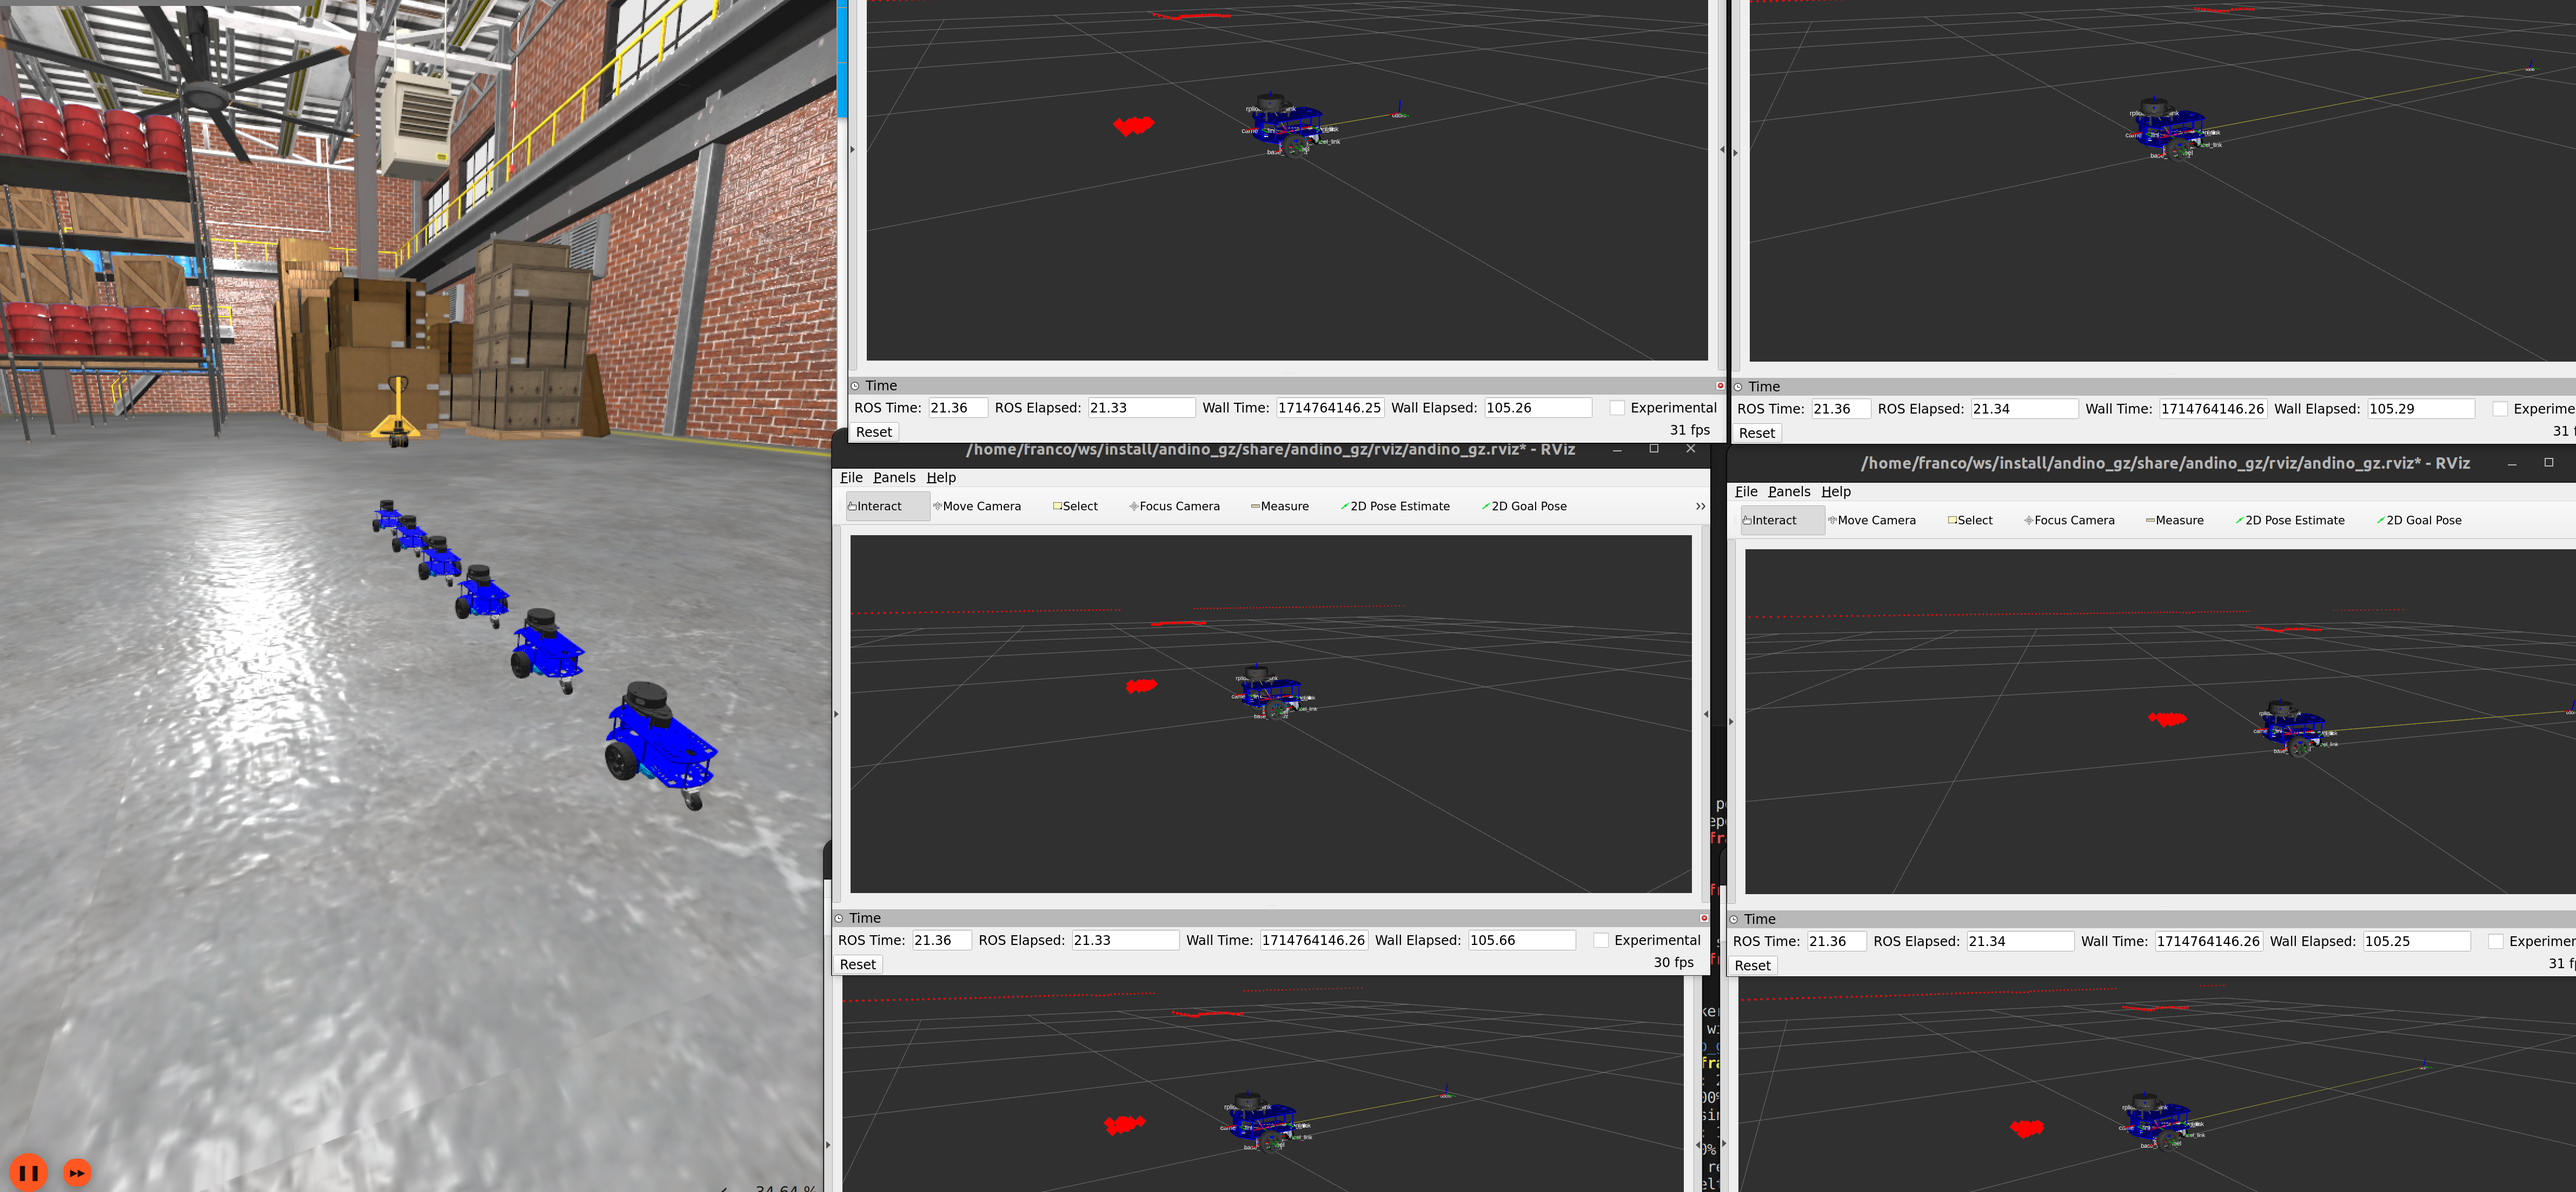
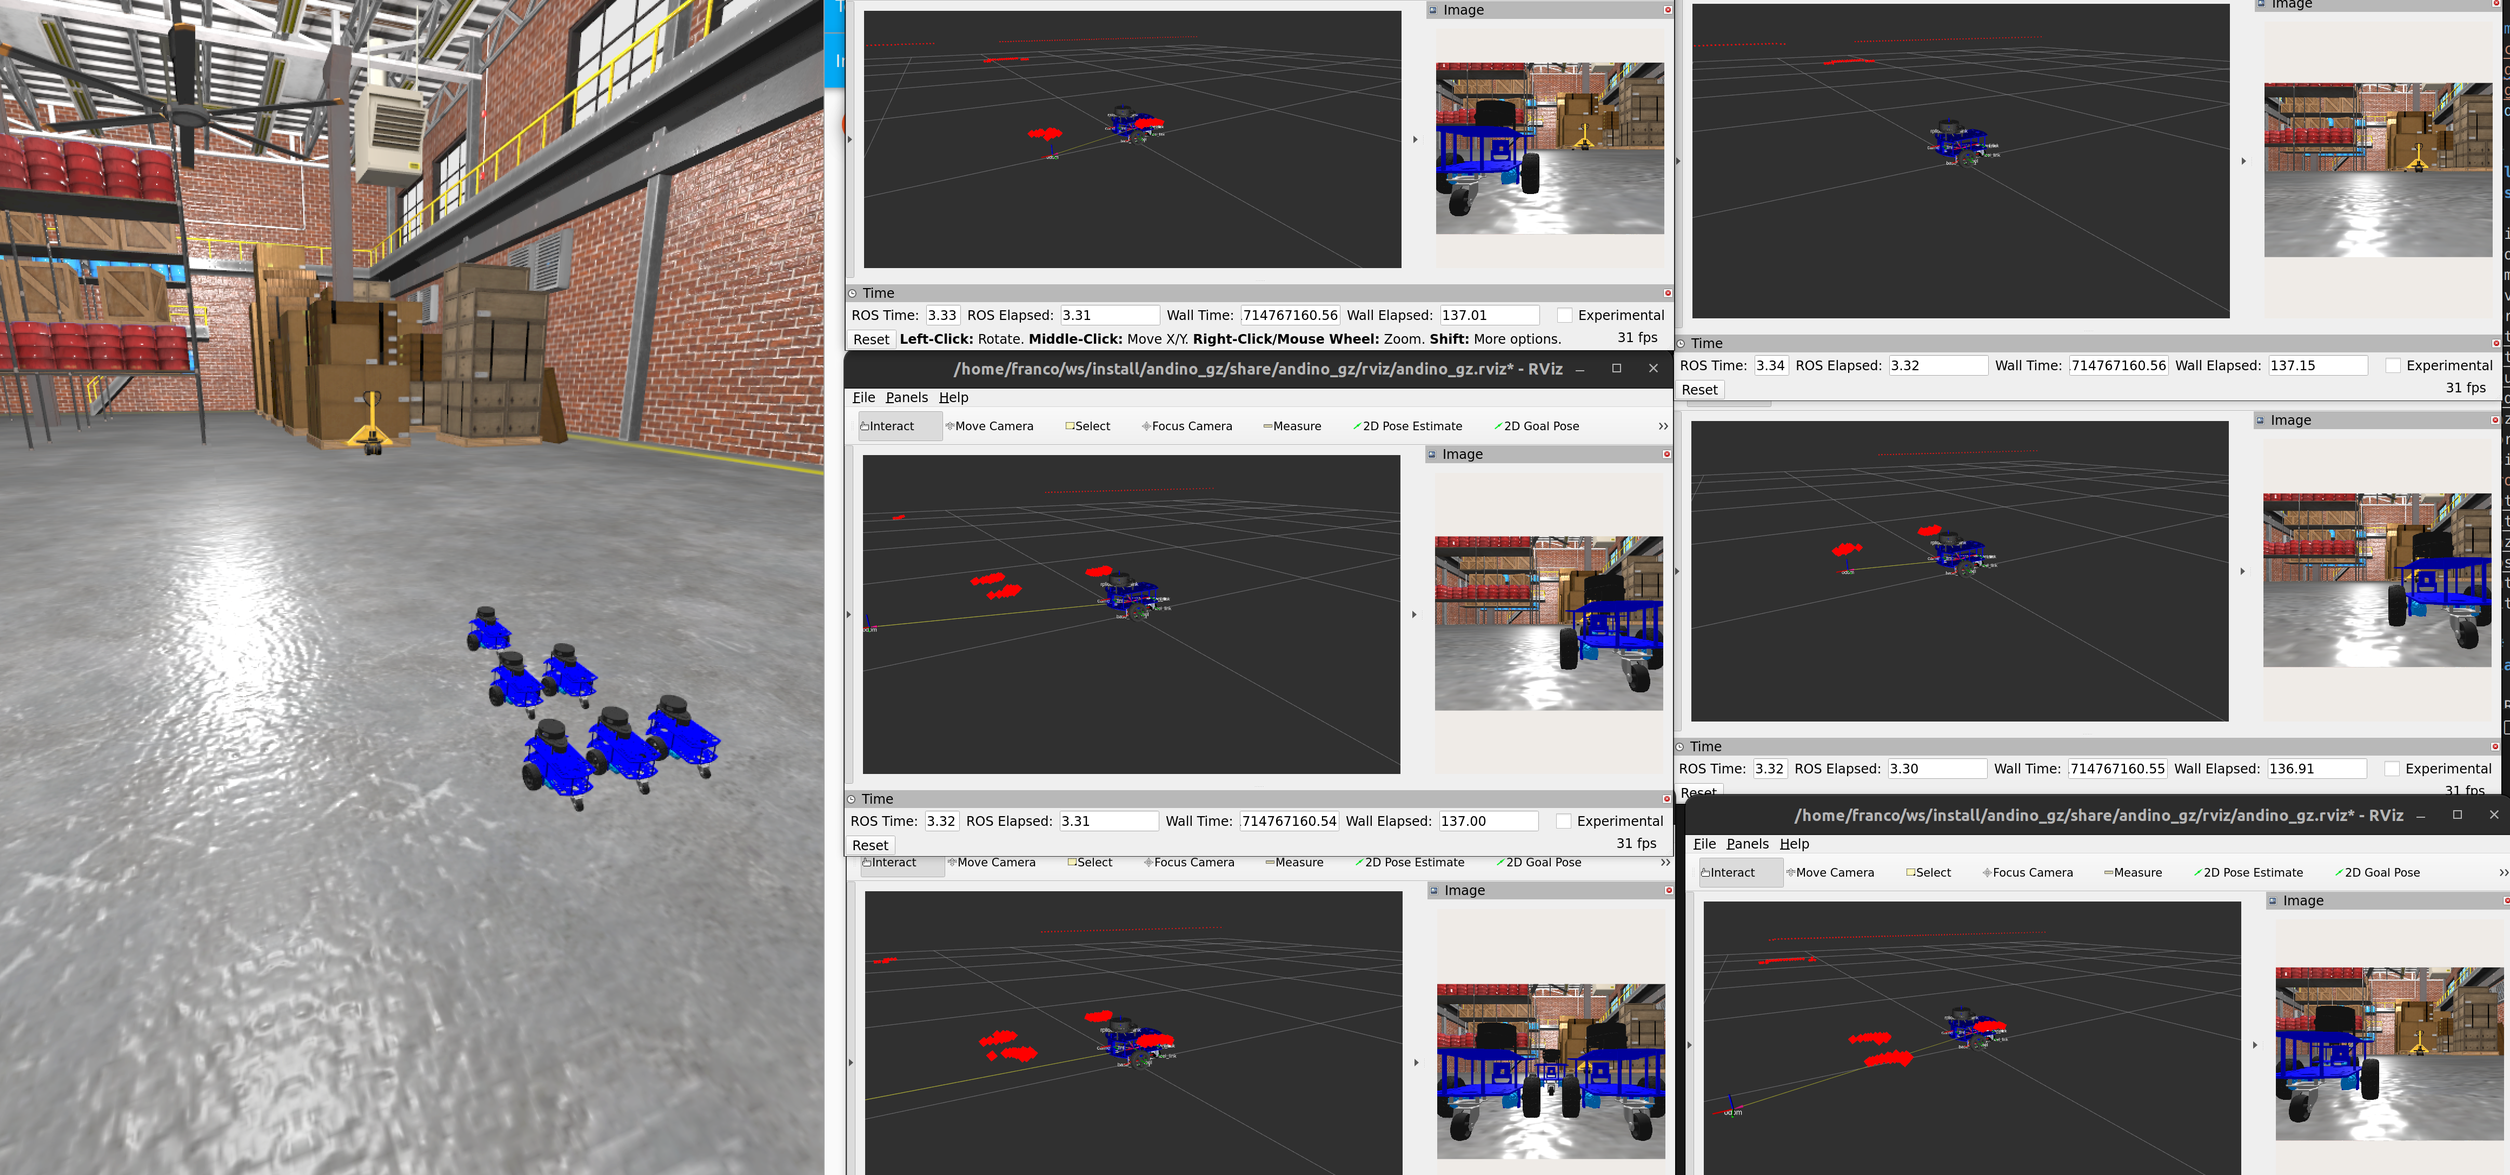
Updates docs

diff --git a/README.md b/README.md
@@ -74,13 +74,13 @@ Also, consider using looking at the translation entries under `andino_gz/config/
   This simulation also support multi robot simulation.
 
   ```sh
-  ros2 launch andino_gz andino_gz.launch.py robots:="\
-       andino1={x: 0.0, y: 0., z: 0.1, yaw: 0.};\
-       andino2={x: 0.4, y: 0., z: 0.1, yaw: 0.};\
-       andino3={x: 0.8, y: 0., z: 0.1, yaw: 0.};\
-       andino4={x: 1.2, y: 0., z: 0.1, yaw: 0.};\
-       andino5={x: 1.6, y: 0., z: 0.1, yaw: 0.};\
-       andino6={x: 2.0, y: 0., z: 0.1, yaw: 0.};"
+  ros2 launch andino_gz andino_gz.launch.py robots:="
+       andino1={x: 0.0, y: 0.0, z: 0.1, yaw: 0.};
+       andino2={x: -0.4, y: 0.1, z: 0.1, yaw: 0.};
+       andino3={x: -0.4, y: -0.1, z: 0.1, yaw: 0.};
+       andino4={x: -0.8, y: 0.2, z: 0.1, yaw: 0.};
+       andino5={x: -0.8, y: -0.2, z: 0.1, yaw: 0.};
+       andino6={x: -0.8, y: 0.0, z: 0.1, yaw: 0.};"
   ```
 
   _Note: You can add as many as you want_
